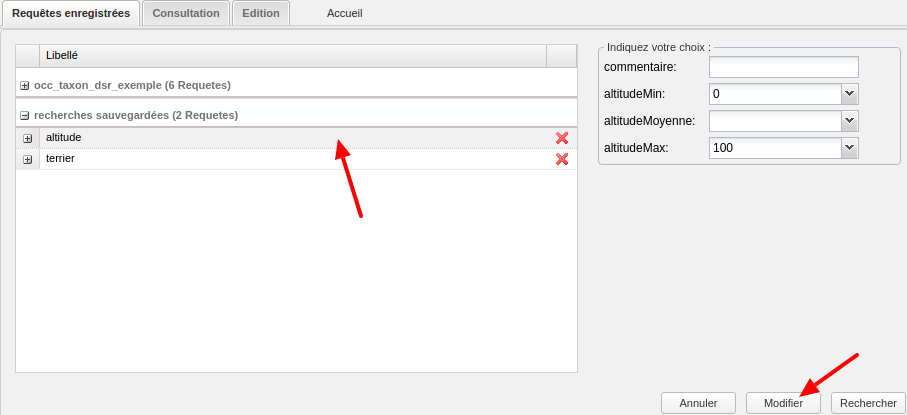
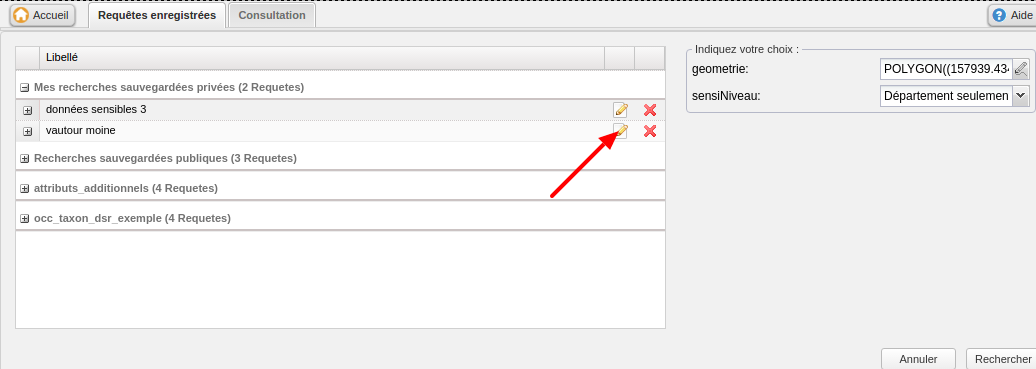
#909: Add permissions on request save: documentation

diff --git a/documentation/user/source/recherche-visu/page-recherche-enregistrees.rst b/documentation/user/source/recherche-visu/page-recherche-enregistrees.rst
@@ -9,7 +9,11 @@ L'onglet "Requêtes enregistrées" se situe en haut à gauche de la page, à gau
 
 Il permet d'accéder à :
  * Quelques recherches courantes pré-enregistrées dans l'application;
- * Les requêtes enregistrées par l'utilisateur.
+ * Les requêtes privées enregistrées par l'utilisateur;
+ * Les requêtes publiques enregistrées par l'administrateur régional.
+
+Requêtes pré-enregistrées
+-------------------------
 
 Les requêtes pré-enregistrées dans l'application sont les suivantes :
 
@@ -46,12 +50,42 @@ Les requêtes pré-enregistrées dans l'application sont les suivantes :
 |                                          | -  organismeGestionnaireDonnee         |
 +------------------------------------------+----------------------------------------+
 
+Permissions sur les requêtes
+----------------------------
+
+Il y a 2 permissions sur les requêtes enregistrées :
+
+ A - Gérer ses requêtes privées
+ 
+ B - Gérer les requêtes publiques
+
+Tous les utilisateurs peuvent voir et utiliser (ie rechercher avec) les requêtes publiques.
+
+Les utilisateurs pouvant gérer des requêtes privées (permission A) voient également leurs requêtes privées qu’ils peuvent créer, éditer, supprimer.
+
+Les utilisateurs ayant la permission B peuvent en plus créer, éditer, supprimer les requêtes publiques.
+
+=========== ====================================== ======================================
+Permissions Requêtes privées                       Requêtes publiques
+=========== ====================================== ======================================
+Ni A ni B                                          Rechercher
+A           Créer, éditer, supprimer et rechercher Rechercher
+A et B      Créer, éditer, supprimer et rechercher Créer, éditer, supprimer et rechercher
+=========== ====================================== ======================================
+
+Sachant qu’il n’est pas possible d’avoir la permission B seule (contrainte lors de la création ou l'édition d’un rôle).
+
 Rechercher en utilisant une requête enregistrée :
 -------------------------------------------------
 
+Le panneau des requêtes enregistrées range les requêtes dans différents groupes :
+ * groupe "Recherches sauvegardées privées" ;
+ * groupe "Recherches sauvegardées publiques" ;
+ * groupes portant le nom des modèles d'import publiés sur la plateforme.
+
 Sur l'onglet des requêtes enregistrées, lorsqu'on sélectionne une requête en cliquant dessus, les critères de recherche correspondants apparaissent à droite de la page.
 Il est alors possible de modifier une ou plusieurs valeurs ou de les laisser telles quelles (vides ou avec leur valeur par défaut),
-puis de lancer la recherche en cliquant sur le bouton "Recherhcer".
+puis de lancer la recherche en cliquant sur le bouton "Rechercher".
 
 Une fois la recherche lancée, le module de visualisation a le même comportement que lorsque la recherche est effectuée via le requêteur.
 
@@ -67,6 +101,8 @@ Pour cela, il faut déplier le pannneau "Enregistrer la requête". Il permet d'i
  * le nom de la requête enregistrée,
  * sa description.
 
+Lorsque l'utilisateur à le droit de gérer les requêtes publiques (administrateur régional),  il faut également indiquer s’il s’agit d’une requête privée (que pour lui) ou publique (pour tous).
+
 La requête est sauvegardée en cliquant sur "Enregistrer". L'application charge alors l'onglet 'Requêtes prédéfinies', et enregistre la requête dans le groupe "Recherches sauvegardées".
 
 .. image:: ../images/visu/visu-recherche-sauvegarder.png
@@ -75,7 +111,10 @@ Modifier une recherche
 ----------------------
 
 Pour modifier une recherche enregistrée, il faut se trouver sur l'onglet 'Requêtes prédéfinies'.
-Sélectionner une requête, puis cliquer sur le bouton 'Modifier'.
+Puis cliquer sur l'icône 'Modifier' de la requête à éditer.
+
+.. note:: Selon les permissions les boutons d’édition et de suppression disparaissent dans les groupes de requêtes.
+
 L'application redirige alors sur l'onglet 'Consultation', et charge les paramètres de la recherche dans le requêteur.
 On peut alors modifier les critères ou colonnes de recherche, ainsi que le nom et la description de la recherche via le panneau "Enregistrer la recherche".
 Lorsqu'on l'on clique sur enregistrer, l'onglet 'Requêtes prédéfinies' apparaît à nouveau avec la requête mise à jour.

diff --git a/documentation/user/source/utilisateurs/administrer-les-roles.rst b/documentation/user/source/utilisateurs/administrer-les-roles.rst
@@ -52,7 +52,8 @@ Consulter les métadonnées                                    **Oui**        **
 Gérer les jeux de données (export GML...)                    **Oui**          Non        Non
 Visualiser les données privées                               **Oui**          Non        Non
 Publier les données                                          **Oui**          Non        Non
-Consulter les métadonnées                                    **Oui**        **Oui**      Non
+Gérer les requêtes publiques                                 **Oui**          Non        Non
+Gérer ses requêtes privées                                   **Oui**        **Oui**      Non
 ========================================================  ==============  ==========  ========
 
 .. note:: La permission Consulter les métadonnées ne permet pas d'en saisir ou d'en importer.

diff --git a/documentation/user/source/configurateur/index.rst b/documentation/user/source/configurateur/index.rst
@@ -3,7 +3,7 @@
 Le configurateur GINCO
 ======================
 
-.. warning:: L'accès au configurateur GINCO n'est possible qu'aux personnes disposant de la permission adéquat. Par défaut c'est le cas du rôle "Administrateur régional".
+.. warning:: L'accès au configurateur GINCO n'est possible qu'aux personnes disposant de la permission adéquate. Par défaut c'est le cas du rôle "Administrateur régional".
 
 Le module de configuration (ou "configurateur") est un outil de paramétrage des briques élémentaires de
 l’application GINCO, à savoir :

diff --git a/documentation/user/source/utilisateurs/administrer-les-utilisateurs.rst b/documentation/user/source/utilisateurs/administrer-les-utilisateurs.rst
@@ -21,7 +21,7 @@ La page suivante permet alors d'indiquer l'identifiant, le mot de passe (à sais
 L'organisme et le rôle sont à sélectionner dans les listes déroulantes.
 Enfin cliquez sur "Valider".
  
-.. image:: ../images/administration-role-ajouter.png
+.. image:: ../images/administration-utilisateur-ajouter.png
 
 .. note:: Il faut créer l'organisme et le rôle avant l'utilisateur.
 
